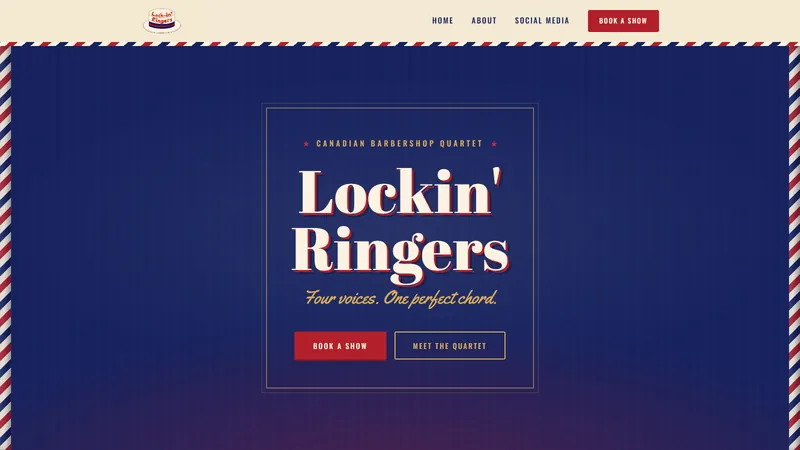
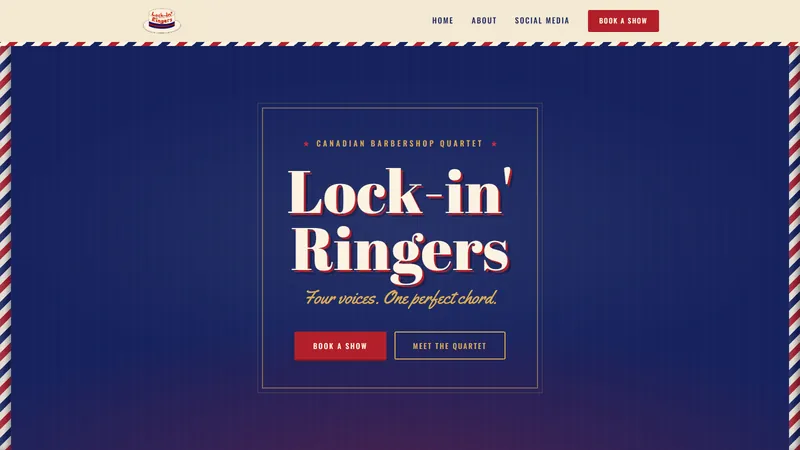
Link the Lock-in' Ringers site and correct its name
Add the live site URL, rename the project to match the quartet's logo
spelling, and refresh the screenshots so the hero shows the new name.

diff --git a/src/models/projectModel.js b/src/models/projectModel.js
@@ -178,9 +178,9 @@ const mockProjects = [
     {
         id: 13,
         slug: "lockin-ringers-website",
-        title: "Lockin' Ringers Website",
+        title: "Lock-in' Ringers Website",
         shortDescription: "Website for a Canadian barbershop quartet built with Node.js, Express, and EJS.",
-        description: "The official website for Lockin' Ringers, a young Canadian barbershop quartet. Built on a Node.js and Express backend with EJS layouts and partials, it introduces the quartet and its members, explains the barbershop style, and lets visitors request bookings for events. The vintage design is drawn from the quartet's boater-hat logo, with animated barber-pole stripes, period signage typography, and a responsive layout.",
+        description: "The official website for Lock-in' Ringers, a young Canadian barbershop quartet. Built on a Node.js and Express backend with EJS layouts and partials, it introduces the quartet and its members, explains the barbershop style, and lets visitors request bookings for events. The vintage design is drawn from the quartet's boater-hat logo, with animated barber-pole stripes, period signage typography, and a responsive layout.",
         category: "Personal",
         type: "website",
         role: "Developer",
@@ -189,7 +189,7 @@ const mockProjects = [
         thumbnail: "/images/projects/lockin-ringers/01-home-thumb.webp",
         github: "https://github.com/JosephDriedger/Lockin-Ringers",
         demo: null,
-        website: null,
+        website: "https://lockinringers.ca/",
         technologies: ["Node.js", "Express.js", "EJS", "HTML5", "CSS", "JavaScript"],
         media: [
             { type: "image", title: "Home page hero framed by animated barber poles", url: "/images/projects/lockin-ringers/01-home.webp", thumbnail: "/images/projects/lockin-ringers/01-home-thumb.webp" },
